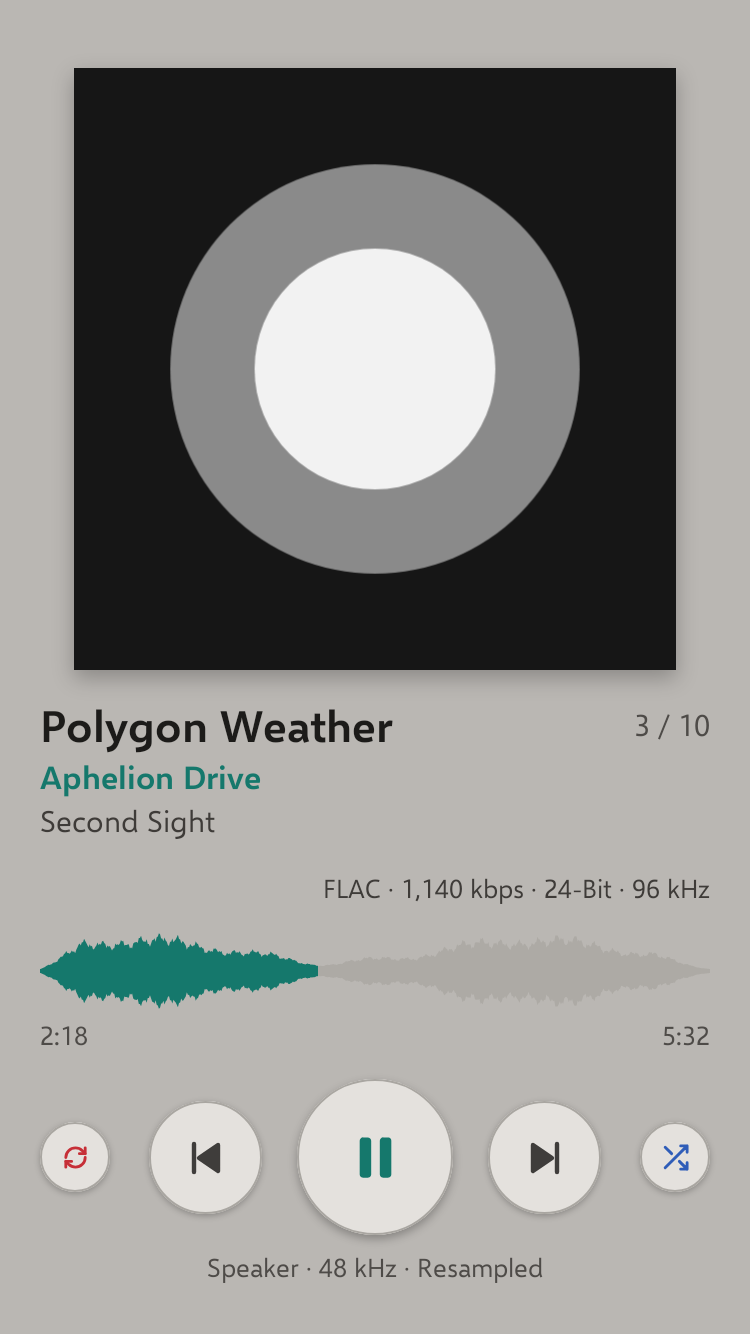
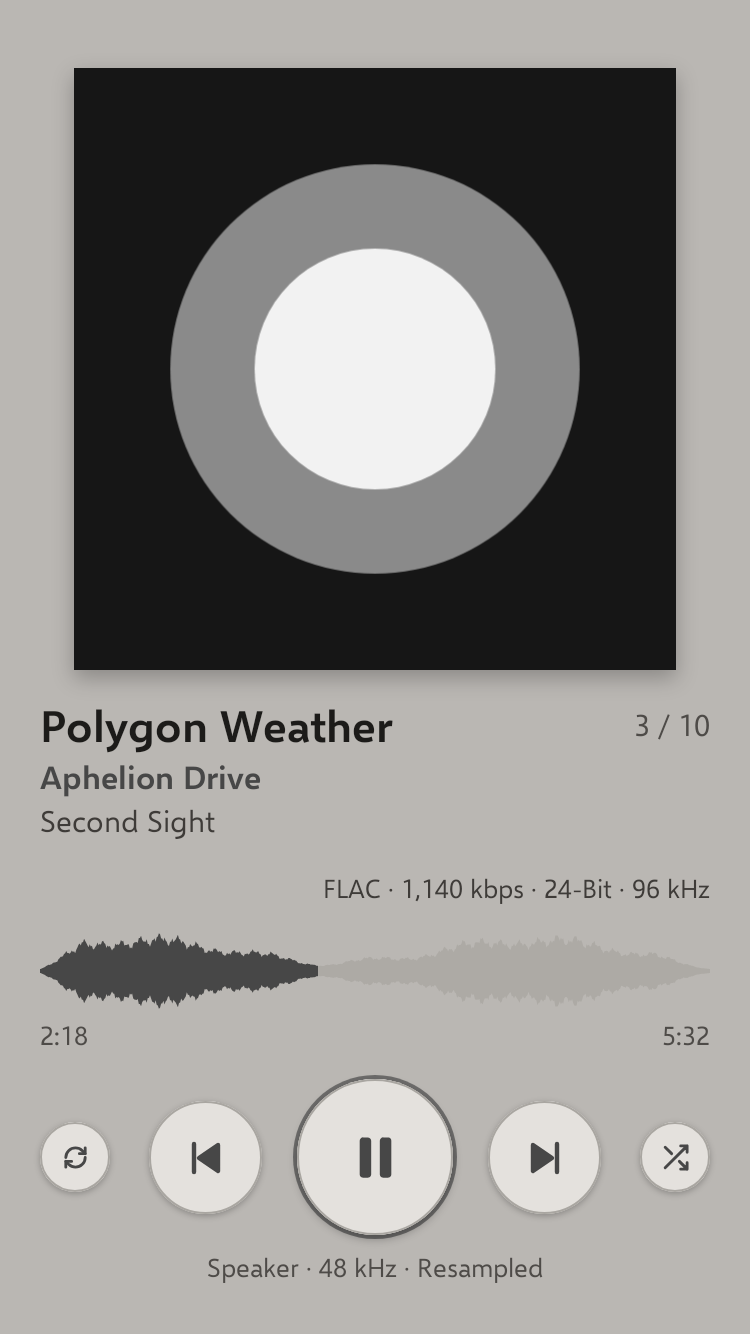
Cover colour: a black and white cover gives a grey
The user's call ("Try a neutral accent"). CoverColor.main returns a grey
at the cover's average lightness instead of null, and accent fits it to
the theme like any colour: a light grey on Dark, a dark grey on Light.
Only a song with no cover keeps the theme's teal or blue. Tests for the
grey cases; CoverColorsTest split into no cover and black and white;
the 4 grey-cover pictures re-recorded. Spec 3 and 5, tokens note,
progress and HANDOFF follow.

diff --git a/core/src/test/kotlin/com/mpaulrenlund/audiofool/core/art/CoverColorTest.kt b/core/src/test/kotlin/com/mpaulrenlund/audiofool/core/art/CoverColorTest.kt
@@ -30,25 +30,42 @@ class CoverColorTest {
     @Test fun a_red_logo_on_a_black_cover_is_red() =
         assertEquals(opaque(RED), CoverColor.main(picture(0x000000 to 95, RED to 5)))
 
-    @Test fun black_and_white_has_no_colour() =
-        assertNull(CoverColor.main(picture(0x000000 to 40, 0xFFFFFF to 20, 0x808080 to 30, 0x8A8580 to 10)))
+    /** Since 2026-11-11 (the user's call) a cover without a colour is a grey, at its average lightness; it was null. */
+    private fun assertGrey(lightness: Double, actual: Int?) {
+        assertNotNull(actual, "no colour found")
+        assertTrue(CoverColor.chroma(actual) < 0.002, "chroma ${CoverColor.chroma(actual)}")
+        assertEquals(lightness, CoverColor.lightness(actual), 0.01)
+    }
 
-    @Test fun an_off_white_cover_has_no_colour() =
-        assertNull(CoverColor.main(picture(CREAM to 90, 0x000000 to 10)))
+    private fun averageLightness(vararg parts: Pair<Int, Int>) =
+        parts.sumOf { (rgb, count) -> CoverColor.lightness(opaque(rgb)) * count } / parts.sumOf { it.second }
+
+    @Test fun black_and_white_is_a_grey_of_its_lightness() {
+        val parts = arrayOf(0x000000 to 40, 0xFFFFFF to 20, 0x808080 to 30, 0x8A8580 to 10)
+        assertGrey(averageLightness(*parts), CoverColor.main(picture(*parts)))
+    }
+
+    @Test fun a_black_cover_is_a_dark_grey_and_a_white_one_a_light_grey() {
+        assertGrey(0.0, CoverColor.main(picture(0x000000 to 100)))
+        assertGrey(1.0, CoverColor.main(picture(0xFFFFFF to 100)))
+    }
+
+    @Test fun an_off_white_cover_is_a_grey() =
+        assertGrey(averageLightness(CREAM to 90, 0x000000 to 10), CoverColor.main(picture(CREAM to 90, 0x000000 to 10)))
 
     @Test fun a_dark_brown_cover_is_brown_not_grey() =
         assertHue(DARK_BROWN, CoverColor.main(picture(DARK_BROWN to 70, 0x0C0A08 to 30)))
 
     /** Under half a percent (2% until 2026-11-11, the user's call: "take any predominant color"). */
     @Test fun a_speck_of_colour_is_not_the_covers_colour() {
-        assertNull(CoverColor.main(picture(0x808080 to 299, RED to 1)))
+        assertGrey(CoverColor.lightness(opaque(0x808080)), CoverColor.main(picture(0x808080 to 299, RED to 1)))
         assertEquals(opaque(RED), CoverColor.main(picture(0x808080 to 99, RED to 1)))
     }
 
     /** A JPEG's black has a cast; made as light as the playback colour it was a strong blue (2026-11-11). */
     @Test fun a_black_covers_faint_tint_is_not_its_colour() {
         assertHue(GOLD, CoverColor.main(picture(BLUISH_BLACK to 95, GOLD to 5)))
-        assertNull(CoverColor.main(picture(BLUISH_BLACK to 60, 0xFFFFFF to 40)))
+        assertGrey(averageLightness(BLUISH_BLACK to 60, 0xFFFFFF to 40), CoverColor.main(picture(BLUISH_BLACK to 60, 0xFFFFFF to 40)))
     }
 
     /** Each pixel counts by its chroma squared (2026-11-11): a grey's faint cast doesn't outweigh the colour in it. */
@@ -75,7 +92,7 @@ class CoverColorTest {
     @Test fun see_through_pixels_are_not_part_of_the_picture() {
         val clearRed = 0x00C0392B
         assertHue(SKY, CoverColor.main(IntArray(90) { clearRed } + picture(SKY to 10)))
-        assertNull(CoverColor.main(IntArray(100) { clearRed }))
+        assertNull(CoverColor.main(IntArray(100) { clearRed }), "nothing to see is no colour, not a grey")
     }
 
     @Test fun an_empty_picture_has_no_colour() = assertNull(CoverColor.main(IntArray(0)))

diff --git a/core/src/main/kotlin/com/mpaulrenlund/audiofool/core/art/CoverColor.kt b/core/src/main/kotlin/com/mpaulrenlund/audiofool/core/art/CoverColor.kt
@@ -40,10 +40,10 @@ object CoverColor {
     const val BLACK_BELOW = 0.15
 
     /**
-     * A cover with a smaller share of coloured pixels than this has no colour of its
-     * own: a few pixels, not a part of the picture. 2% until 2026-11-11 (the user's
-     * call: "take any predominant color from the album"). Of the desktop's 8,604
-     * covers, 9% still find none; those looked at were all black and white.
+     * A cover with a smaller share of coloured pixels than this is black and white:
+     * a few pixels, not a part of the picture. 2% until 2026-11-11 (the user's call:
+     * "take any predominant color from the album"). Of the desktop's 8,604 covers,
+     * 9% are under it; those looked at were all black and white.
      */
     const val MIN_SHARE = 0.005
 
@@ -56,9 +56,13 @@ object CoverColor {
      * black cover is red, a blue sky with a small sun is blue, and a grey's faint
      * cast doesn't outweigh the colour beside it (by its chroma until 2026-11-11).
      * Black pixels ([BLACK_BELOW]) don't count. The colour given is the average of
-     * the pixels of that hue. Null when the cover has no colour to speak of (black
-     * and white, or under [MIN_SHARE] coloured); see-through pixels are not part of
-     * the picture.
+     * the pixels of that hue.
+     *
+     * A cover with no colour to speak of (black and white, or under [MIN_SHARE]
+     * coloured) is a grey, at its pixels' average lightness, so [accent] makes it
+     * a neutral that reads on the theme (2026-11-11, the user's call: until then
+     * such a cover kept the theme's teal or blue). Null only for a picture with
+     * nothing in it; see-through pixels are not part of the picture.
      */
     fun main(pixels: IntArray): Int? {
         val weight = DoubleArray(SLICES)
@@ -67,10 +71,12 @@ object CoverColor {
         val b = DoubleArray(SLICES)
         var seen = 0
         var coloured = 0
+        var lightness = 0.0
         for (pixel in pixels) {
             if (pixel ushr 24 < 128) continue
             seen++
             val lab = Lab.of(pixel)
+            lightness += lab.l
             val chroma = lab.chroma
             if (lab.l < BLACK_BELOW) continue
             if (chroma < (GREY_PER_LIGHTNESS * lab.l).coerceIn(GREY_BELOW_DARK, GREY_BELOW)) continue
@@ -82,7 +88,8 @@ object CoverColor {
             a[slice] += w * lab.a
             b[slice] += w * lab.b
         }
-        if (seen == 0 || coloured < seen * MIN_SHARE) return null
+        if (seen == 0) return null
+        if (coloured < seen * MIN_SHARE) return Lab(lightness / seen, 0.0, 0.0).toArgb()
 
         // A hue that straddles two slices isn't split: each slice is counted with its neighbours.
         fun around(values: DoubleArray, i: Int) = values[(i + SLICES - 1) % SLICES] + values[i] + values[(i + 1) % SLICES]

diff --git a/app/src/main/java/com/mpaulrenlund/audiofool/ui/NowPlayingScreen.kt b/app/src/main/java/com/mpaulrenlund/audiofool/ui/NowPlayingScreen.kt
@@ -146,8 +146,8 @@ fun albumRouteFor(track: Track, library: MusicLibrary?): Route.Album? =
  * Cover colour): the seekbar's played part, the transport's icons and the ring and glow
  * round Play/Pause, Repeat and Shuffle when on, and the artist's name (the same colour, since 2026-11-11) take the cover's
  * main colour (the glow at the top of the screen did too, until it went on 2026-11-10), fitted to the theme
- * ([AppTheme.coverAccent]). A cover with no colour of its own, or no cover, leaves them
- * the theme's. The mini player's buttons take the same colour ([MiniPlayerBar]).
+ * ([AppTheme.coverAccent]); a black and white cover's is a grey (2026-11-11). No cover
+ * leaves them the theme's. The mini player's buttons take the same colour ([MiniPlayerBar]).
  *
  * [artMenuForPictures] is ThemeLab's: the menu open in the art's middle, showing that resolution.
  * So are [coverForPictures], a made-up cover shown as if it had been read from the song, and
@@ -393,7 +393,7 @@ private fun BigArt(nowPlaying: NowPlaying, side: Dp, cover: BigCover?, actions: 
 
 /**
  * The cover decoded at the art's size; the picture's own size, for the menu; and
- * its main colour (core `CoverColor` through [CoverColors]; null when it has none),
+ * its main colour (core `CoverColor` through [CoverColors]; null without a cover),
  * for the playback controls.
  */
 private class BigCover(val image: ImageBitmap?, val width: Int, val height: Int, val color: Int?) {

diff --git a/app/src/test/java/com/mpaulrenlund/audiofool/art/CoverColorsTest.kt b/app/src/test/java/com/mpaulrenlund/audiofool/art/CoverColorsTest.kt
@@ -12,6 +12,7 @@ import kotlin.test.assertEquals
 import kotlin.test.assertNotNull
 import kotlin.test.assertNull
 import kotlin.test.assertSame
+import kotlin.test.assertTrue
 
 /**
  * Each song's cover colour, shared by Now Playing and the mini player (2026-11-10):
@@ -48,12 +49,21 @@ class CoverColorsTest {
     }
 
     @Test
-    fun no_cover_or_a_grey_one_has_no_colour_and_is_kept_too() {
+    fun no_cover_has_no_colour_and_is_kept_too() {
         val colors = CoverColors()
         assertNull(colors.load(song) { null }.color)
         assertNotNull(colors.peek(song))
+    }
+
+    /** Since 2026-11-11 (the user's call) a black and white cover is a grey, not the theme's colour. */
+    @Test
+    fun a_black_and_white_cover_is_a_grey() {
+        val colors = CoverColors()
         val grey = song.copy(filePath = song.filePath.replace("01", "02"))
-        assertNull(colors.load(grey) { png(ThemeLabFixtures.coverBlackAndWhite()) }.color)
+        val color = colors.load(grey) { png(ThemeLabFixtures.coverBlackAndWhite()) }.color
+        assertNotNull(color)
+        val (r, g, b) = listOf(16, 8, 0).map { (color shr it) and 0xFF }
+        assertTrue(maxOf(r, g, b) - minOf(r, g, b) <= 2, "#%06X is not a grey".format(color and 0xFFFFFF))
     }
 
     @Test

diff --git a/app/src/main/java/com/mpaulrenlund/audiofool/ui/MiniPlayer.kt b/app/src/main/java/com/mpaulrenlund/audiofool/ui/MiniPlayer.kt
@@ -24,7 +24,7 @@ import com.mpaulrenlund.audiofool.theme.toCompose
  * Its three buttons follow Now Playing's (2026-11-10, the user's call): the icons,
  * and Play/Pause's ring and glow, take the cover's colour ([rememberCoverColor],
  * the same colour Now Playing shows for the song), and the glow shows only while
- * playing. A cover with no colour of its own, or no cover, leaves them the theme's:
+ * playing. No cover leaves them the theme's (a black and white cover gives a grey, 2026-11-11):
  * `accent.playback` for Play/Pause, `control.iconNeutral` for Previous and Next.
  */
 @Composable

diff --git a/app/src/main/java/com/mpaulrenlund/audiofool/ui/Parts.kt b/app/src/main/java/com/mpaulrenlund/audiofool/ui/Parts.kt
@@ -94,8 +94,8 @@ val LocalCoverColors = staticCompositionLocalOf<CoverColors?> { null }
 /**
  * [track]'s cover colour ([CoverColors]), worked out off the main thread the first
  * time. The last song's stays until the next one's is in, as on Now Playing, so an
- * album's songs don't blink to the theme's colour between them. Null when the cover
- * has no colour of its own.
+ * album's songs don't blink to the theme's colour between them. Null when there is
+ * no cover (a black and white one gives a grey, since 2026-11-11).
  */
 @Composable
 fun rememberCoverColor(track: Track): Int? {

diff --git a/app/src/main/java/com/mpaulrenlund/audiofool/art/CoverColors.kt b/app/src/main/java/com/mpaulrenlund/audiofool/art/CoverColors.kt
@@ -19,7 +19,7 @@ import com.mpaulrenlund.audiofool.playback.SystemControls
  * [capacity] songs' are kept, so a screen opening has its song's at once.
  */
 class CoverColors(capacity: Int = 64) {
-    /** A song's colour once worked out: [color] null when its cover has no colour of its own, or there is no cover. */
+    /** A song's colour once worked out: [color] null when there is no cover (a black and white one gives a grey, since 2026-11-11). */
     class Known(val color: Int?)
 
     private val known = LruCache<String, Known>(capacity)

diff --git a/design/android-spec.md b/design/android-spec.md
@@ -67,7 +67,7 @@ The striped squares in the mockups stand for album art. Where an album has no ar
 
 On every library screen, under the panel. Shows the cover, title (600, `text.primary`), artist (600, `accent.blue`), and Previous, Play/Pause and Next. Sizes are in `miniPlayer.*`: skip buttons are 36 dp faces in 44 × 48 dp touch areas, and Play/Pause is a 44 dp face in a 48 dp touch area. A tap anywhere else opens Now Playing. Hidden until something has been played.
 
-**Its buttons follow Now Playing's** (2026-11-10, the user's call): the three icons and Play/Pause's ring and glow take the cover's colour (§5, Cover colour), the same colour Now Playing shows for the song, and the glow shows only while playing (Dark; Light has no glow). Without a colour of its own, Play/Pause's icon is `accent.playback` and Previous's and Next's `control.iconNeutral`, with the theme's ring, and still no glow when paused. The title and the artist's name keep their colours. A song's colour is worked out once, from its cover decoded no smaller than 512 px a side (the lock screen's size; `CoverColors`), and kept for the last 64 songs, so both screens show the same colour and a screen opening has it at once; the last song's stays until the next one's is in.
+**Its buttons follow Now Playing's** (2026-11-10, the user's call): the three icons and Play/Pause's ring and glow take the cover's colour (§5, Cover colour), the same colour Now Playing shows for the song, and the glow shows only while playing (Dark; Light has no glow). Without a cover (a black and white one gives a grey, §5), Play/Pause's icon is `accent.playback` and Previous's and Next's `control.iconNeutral`, with the theme's ring, and still no glow when paused. The title and the artist's name keep their colours. A song's colour is worked out once, from its cover decoded no smaller than 512 px a side (the lock screen's size; `CoverColors`), and kept for the last 64 songs, so both screens show the same colour and a screen opening has it at once; the last song's stays until the next one's is in.
 
 ## 4. Library screens
 
@@ -161,7 +161,7 @@ The mini player's three buttons take it as Now Playing's do, icons, ring and glo
 
 Nothing else changes: the mini player's title and artist, the now-playing rows, the other buttons and every other screen keep the theme's colours.
 
-- **The cover's main colour** (`core/.../art/CoverColor.main`): the middle square of the cover, as the screen shows it, scaled down to 64 × 64. Pixels with too little colour say nothing (grey, white, off-white; a dark pixel needs less chroma to count than a light one, so a dark brown is brown and a cream is off-white), and nor does black, whatever its tint (below OKLab lightness 0.15: a JPEG's black has a cast, which came out a strong blue). The rest are counted by hue, each by its chroma squared, and the hue with the most wins; the colour is the average of that hue's pixels. So a red logo on a black cover gives red, a blue sky with a small sun gives blue, and a grey cover's faint cast doesn't outweigh the colour in it. A cover less than 0.5% coloured (black and white), or no cover, has no colour: everything above keeps the theme's own. **2026-11-11, the user's call** ("it's defaulting to the default teal/blue colors too often … take any predominant color from the album"): until then black counted by its tint, pixels by their chroma, and a cover needed 2%. Over the desktop's 8,604 covers that took the ones with no colour from 10.2% to 9.0% (those looked at were all black and white) and the black covers with a faint blue cast to their own colour.
+- **The cover's main colour** (`core/.../art/CoverColor.main`): the middle square of the cover, as the screen shows it, scaled down to 64 × 64. Pixels with too little colour say nothing (grey, white, off-white; a dark pixel needs less chroma to count than a light one, so a dark brown is brown and a cream is off-white), and nor does black, whatever its tint (below OKLab lightness 0.15: a JPEG's black has a cast, which came out a strong blue). The rest are counted by hue, each by its chroma squared, and the hue with the most wins; the colour is the average of that hue's pixels. So a red logo on a black cover gives red, a blue sky with a small sun gives blue, and a grey cover's faint cast doesn't outweigh the colour in it. A cover less than 0.5% coloured (black and white) is a **grey**, at its pixels' average lightness, fitted to the theme as any colour is (below): a light grey on Dark, a dark grey on Light, so the screen is as monochrome as the cover (2026-11-11, the user's call, "Try a neutral accent"; such a cover kept the theme's colours until then). Only a song with no cover keeps the theme's own. **2026-11-11, the user's call** ("it's defaulting to the default teal/blue colors too often … take any predominant color from the album"): until then black counted by its tint, pixels by their chroma, and a cover needed 2%. Over the desktop's 8,604 covers that took the ones with no colour from 10.2% to 9.0% (those looked at were all black and white) and the black covers with a faint blue cast to their own colour.
 - **Fitted to the theme** (`CoverColor.accent`, `AppTheme.coverAccent`): the same hue, at a lightness within `nowPlaying.coverAccent.lightnessRange` (0.15 of OKLab's 0 to 1) of the theme colour it stands in for, on the side away from the background: that or lighter on Dark, that or darker on Light. So it is never harder to see than the colour the theme was designed with. That colour is `accent.playback`, for the artist's name too (2026-11-11; it was fitted to `accent.blue` until then). Made lighter, the colour keeps its saturation (a deep red cover gives a red, not a greyish pink); made darker, its chroma (a pastel stays a colour). It is worked out from the theme as it is drawn, so a theme switch changes it at once.
 - **The cover stays until the next one is read**, picture and colour: nothing blinks between an album's songs (up to 0.12.0 the art showed the empty placeholder for a moment at every song change), and both change when the new cover appears. A song with no cover shows the placeholder and the theme's colours once that is known.
 

diff --git a/design/progress.md b/design/progress.md
@@ -73,6 +73,19 @@ The user made these while the mockups were designed (October 2026). The spec alr
 
 ## Decisions made for the build
 
+2026-11-11, not released yet: **a black and white cover gives a grey, not teal or blue** (the
+user chose "Try a neutral accent" after the change below). Spec §5 (*Cover colour*) and §3.
+`CoverColor.main` returns a grey at the cover's average OKLab lightness where it used to return
+null; `accent` fits it as it fits any colour, so on Dark it is a grey between `accent.playback`'s
+lightness and 0.15 above (about #9A9A9A to #C0C0C0), on Light between it and 0.15 below (about #444
+to #6B6B6B), never harder to see than the theme's colour. No new token: it is the cover's colour,
+the same role. Null now means no cover only. **My calls:** the cover's own lightness, so a white
+cover gives the lighter grey of the band and a black one the darker; the controls, ring, glow,
+seekbar and artist's name all take it, as with any cover. **For the user to judge:** on Dark the
+grey is as light as the theme's blue but has no colour, so Play/Pause reads quieter than with a
+coloured cover; the top of the band (or `text.heading`) would make it brighter. 4 pictures changed
+(`now-playing-cover-grey`).
+
 2026-11-11, not released yet: **the cover colour is found in more covers** (the user: "For the
 accent color, I think it's defaulting to the default teal/blue colors too often. Can we have the
 album art scan take any predominant color from the album and use that as the accent color?").

diff --git a/HANDOFF.md b/HANDOFF.md
@@ -12,6 +12,11 @@ you touch a feature from then.
 - **Read, in order:** `CLAUDE.md`, this file, then in `design/progress.md` the "Decisions made
   for the build" section from the top (0.9.0 down to 0.3.0, the S24's own USB driver) and the
   unticked items in *To test on the S24* / *To test on the M21*.
+- **Since 0.16.0, not released yet (2026-11-11): a black and white cover gives a grey**
+  (the user's call; spec §5): `CoverColor.main` returns a grey at the cover's average lightness
+  instead of null, and `accent` fits it to the theme. `CoverColors.Known.color` is null only
+  without a cover. Checked: all tests (new grey cases in `CoverColorTest`, `CoverColorsTest`
+  split) and the 4 `now-playing-cover-grey` pictures, the only ones that changed.
 - **Since 0.16.0, not released yet (2026-11-11): the cover colour is found in more covers**
   (the user's request; spec §5, *Cover colour*): `CoverColor.main` skips black (lightness < 0.15),
   weights by chroma², needs 0.5%. Measured on the desktop's art cache (`%LOCALAPPDATA%\AudioFool\art`,
